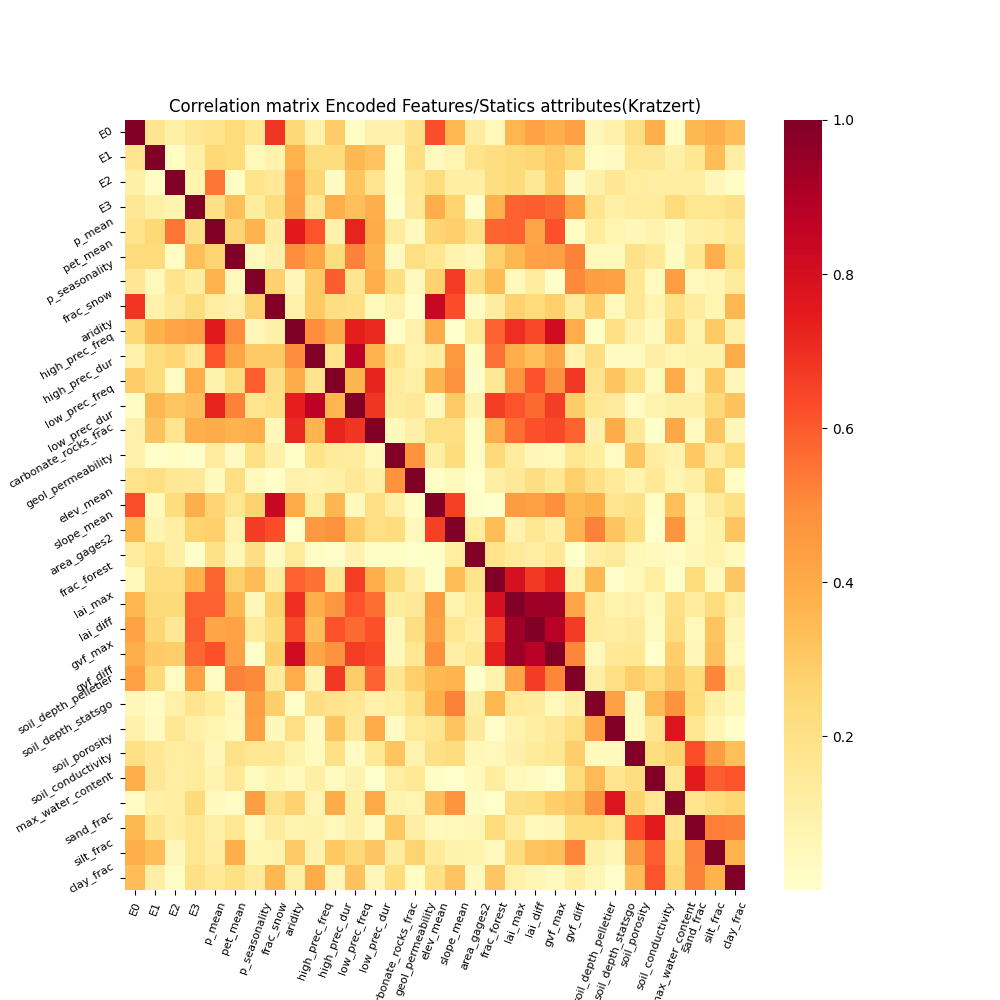
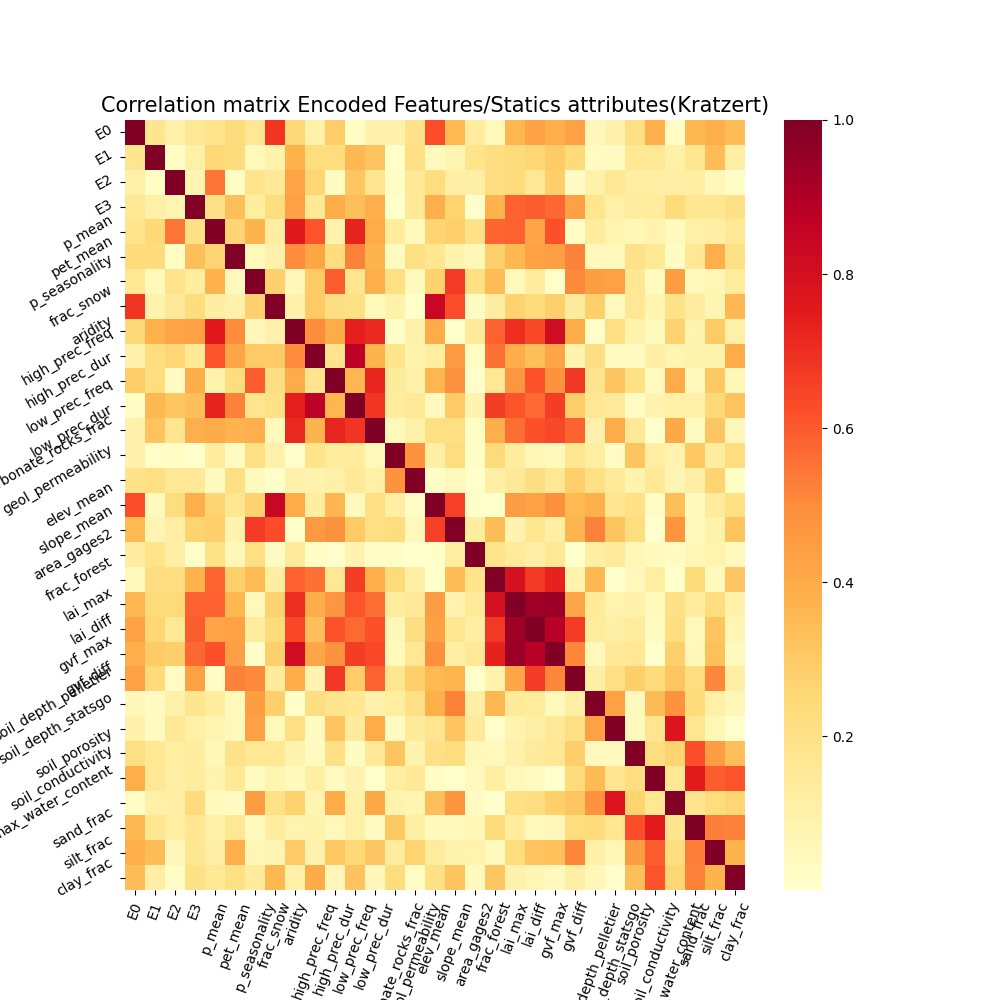
Up

Changed region(s): [[0.0, 0.093, 0.775, 0.899], [0.124, 0.899, 0.744, 1.0]]

diff --git a/src/analysis_imbalance.py b/src/analysis_imbalance.py
@@ -49,11 +49,11 @@ columns = df_ES.iloc[:,1::].columns
 corr = np.abs(df_ES.iloc[:,1::].corr())
 fig, axs = plt.subplots(1,1,figsize=(10,10))
 g = sns.heatmap(corr, xticklabels=corr.columns, yticklabels=corr.columns, cmap="YlOrRd", ax=axs)
-g.set_xticklabels(g.get_xticklabels(), rotation = 70, fontsize = 8)
-g.set_yticklabels(g.get_yticklabels(), rotation = 30, fontsize = 8)
+g.set_xticklabels(g.get_xticklabels(), rotation = 70, fontsize = 10)
+g.set_yticklabels(g.get_yticklabels(), rotation = 30, fontsize = 10)
 #sns.heatmap(corr_noise, xticklabels=corr.columns, yticklabels=corr.columns, cmap="bwr", ax=axs[1])
 file_corr = "plot_corrES_"+model_id+".png"
-axs.set_title("Correlation matrix Encoded Features/Statics attributes(Kratzert)")
+axs.set_title("Correlation matrix Encoded Features/Statics attributes(Kratzert)", fontsize=15)
 fig.savefig(file_corr)
 
 # plot correaltion matrix EH
@@ -61,11 +61,11 @@ columns = df_EH.iloc[:,1::].columns
 corr = np.abs(df_EH.iloc[:,1::].corr())
 fig, axs = plt.subplots(1,1,figsize=(10,10))
 g = sns.heatmap(corr, xticklabels=corr.columns, yticklabels=corr.columns, cmap="YlOrRd", ax=axs)
-g.set_xticklabels(g.get_xticklabels(), rotation = 70, fontsize = 8)
-g.set_yticklabels(g.get_yticklabels(), rotation = 30, fontsize = 8)
+g.set_xticklabels(g.get_xticklabels(), rotation = 70, fontsize = 10)
+g.set_yticklabels(g.get_yticklabels(), rotation = 30, fontsize = 10)
 #sns.heatmap(corr_noise, xticklabels=corr.columns, yticklabels=corr.columns, cmap="bwr", ax=axs[1])
 file_corr = "plot_corrEH_"+model_id+".png"
-axs.set_title("Correlation matrix Encoded Features/Hydrological Signatures")
+axs.set_title("Correlation matrix Encoded Features/Hydrological Signatures", fontsize=15)
 fig.savefig(file_corr)
 
 # plot correaltion matrix SH
@@ -73,11 +73,11 @@ columns = df_SH.iloc[:,1::].columns
 corr = np.abs(df_SH.iloc[:,1::].corr())
 fig, axs = plt.subplots(1,1,figsize=(10,10))
 g = sns.heatmap(corr, xticklabels=corr.columns, yticklabels=corr.columns, cmap="YlOrRd", ax=axs)
-g.set_xticklabels(g.get_xticklabels(), rotation = 70, fontsize = 8)
-g.set_yticklabels(g.get_yticklabels(), rotation = 30, fontsize = 8)
+g.set_xticklabels(g.get_xticklabels(), rotation = 70, fontsize = 10)
+g.set_yticklabels(g.get_yticklabels(), rotation = 30, fontsize = 10)
 #sns.heatmap(corr_noise, xticklabels=corr.columns, yticklabels=corr.columns, cmap="bwr", ax=axs[1])
 file_corr = "plot_corrSH_"+model_id+".png"
-axs.set_title("Correlation matrix Static attributes(Kratzert)/Hydrological Signatures")
+axs.set_title("Correlation matrix Static attributes(Kratzert)/Hydrological Signatures", fontsize=15)
 fig.savefig(file_corr)
 
 
